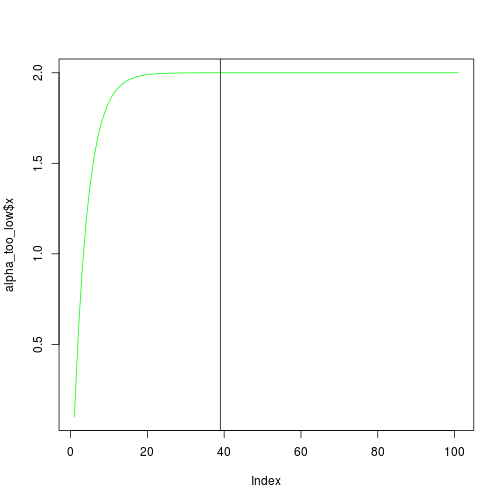
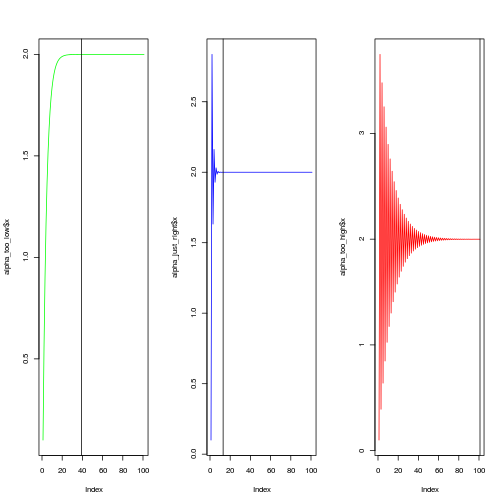
corrected errors in gradient decsent post

diff --git a/_posts/2015-03-29-gradient-descent.md b/_posts/2015-03-29-gradient-descent.md
@@ -11,7 +11,7 @@ comments: yes
  
 
  
-# Linear regression with one variable
+## Gradient decsent with one variable
  
 I'm currently working on the excellent Machine Learning course by Andrew Ng available on [coursera](http://www.coursera.org). I've been working through the exercises using `R`, not matlab or octave as is requried in the course. This is the first programming exercise - implementing linear regression using the gradient descent algorithm rather than the normal equation method.
  
@@ -52,23 +52,20 @@ plot(
 ## Error in plot(x = ex1data1$profit, y = ex1data1$population, ylab = "Profit ($10,000s)", : object 'ex1data1' not found
 {% endhighlight %}
  
-## Gradient descent
+### Gradient descent
  
 Rather than calculating the optimal solution for the linear regression with a single algorithm, in this exercise we use gradient descent to iteratively find a solution. To get the concept behing gradient descent, I start by implementing gradient descent for a function which takes just on parameter (rather than two - like linear regression).
  
-<<<<<<< HEAD
 In this instance I have adapted code from Matt Bogard's execellent blog [Econometric Sense](http://econometricsense.blogspot.co.uk/2011/11/gradient-descent-in-r.html), and will use the same same function:
  
 $$h_{\theta}=1.2(x-2)^2 + 3.2$$
  
 So we can state our objective to minimise $\theta_1$ with respect of $J(\theta_1)$ with a real number, or put mathetically $\min\limits_{\theta_1}J(\theta_1)$ and $\theta_1\in\mathbb{R}$
-=======
-In this instance I have adapted code from Matt Bogard's execellent blog [Econometric Sense](http://econometricsense.blogspot.co.uk/2011/11/gradient-descent-in-r.html), and will use the same same function $h_{\theta}=1.2(x-2)^2 + 3.2$. So we can state our objective to minimise $\theta_1$ with respect of $J(\theta_1)$ with a real number, or put mathetically $\min\limits_{\theta_1}J(\theta_1)$ and $\theta_1\in\mathbb{R}$
->>>>>>> 2438863d2575a07cc1f4a3d40e0eec74e74631b9
  
 We define the cost function $J(\theta_1)$ using calculus as $J(\theta)=2.4(x-2)$ (see [Matt's blog](http://econometricsense.blogspot.co.uk/2011/11/gradient-descent-in-r.html)).
  
 Gradient descent is defined by Andrew Ng as:
+ 
  
  
 repeat until convergence {
@@ -84,8 +81,6 @@ Here I define a function to plot the results of gradient descent graphically so 
  
 
 {% highlight r %}
-par(mfrow=c(1,3))
- 
 xs <- seq(0,4,len=100) # create some values
  
 # define the function we want to optimize
@@ -157,6 +152,8 @@ Pretty simple! Now I use the plotting function to produce plots, and populate th
  
 
 {% highlight r %}
+par(mfrow=c(1,3))
+ 
 create_plot(expression(Low~alpha))
  
 with(
@@ -172,11 +169,7 @@ with(
     col = "green"
     )
   )
-{% endhighlight %}
-
-![plot of chunk gradient_descent_plots](/figures/gradient_descent_plots-1.png) 
-
-{% highlight r %}
+ 
 create_plot(expression(alpha~just~right))
  
 with(
@@ -192,11 +185,8 @@ with(
     col = "blue"
     )
   )
-{% endhighlight %}
-
-![plot of chunk gradient_descent_plots](/figures/gradient_descent_plots-2.png) 
-
-{% highlight r %}
+ 
+ 
 create_plot(expression(High~alpha))
  
 with(
@@ -214,28 +204,20 @@ with(
   )
 {% endhighlight %}
 
-![plot of chunk gradient_descent_plots](/figures/gradient_descent_plots-3.png) 
+![plot of chunk gradient_descent_plots](/figures/gradient_descent_plots-1.png) 
  
 Another way to look at the rate of convergence is to plot the number of iterations against the output of (what is essentially) $J(\theta)$. Vertical lines show when convergence occurs. When $\alpha$ is set very low, it takes much longer than necessary (although it does converge). When $\alpha$ is too high, convergence doesn't occur at all within a hundred iterations.
  
 
 {% highlight r %}
+par(mfrow=c(1,3))
+ 
 plot(alpha_too_low$x,type="l",col="green")
 abline(v=(round(alpha_too_low$x,4)!=2) %>% which %>% length)
-{% endhighlight %}
-
-![plot of chunk gradient_descent_iterations](/figures/gradient_descent_iterations-1.png) 
-
-{% highlight r %}
 plot(alpha_just_right$x,type="l",col="blue")
 abline(v=(round(alpha_just_right$x,4)!=2) %>% which %>% length)
-{% endhighlight %}
-
-![plot of chunk gradient_descent_iterations](/figures/gradient_descent_iterations-2.png) 
-
-{% highlight r %}
 plot(alpha_too_high$x,type="l",col="red")
 abline(v=(round(alpha_too_high$x,4)!=2) %>% which %>% length)
 {% endhighlight %}
 
-![plot of chunk gradient_descent_iterations](/figures/gradient_descent_iterations-3.png) 
+![plot of chunk gradient_descent_iterations](/figures/gradient_descent_iterations-1.png) 
